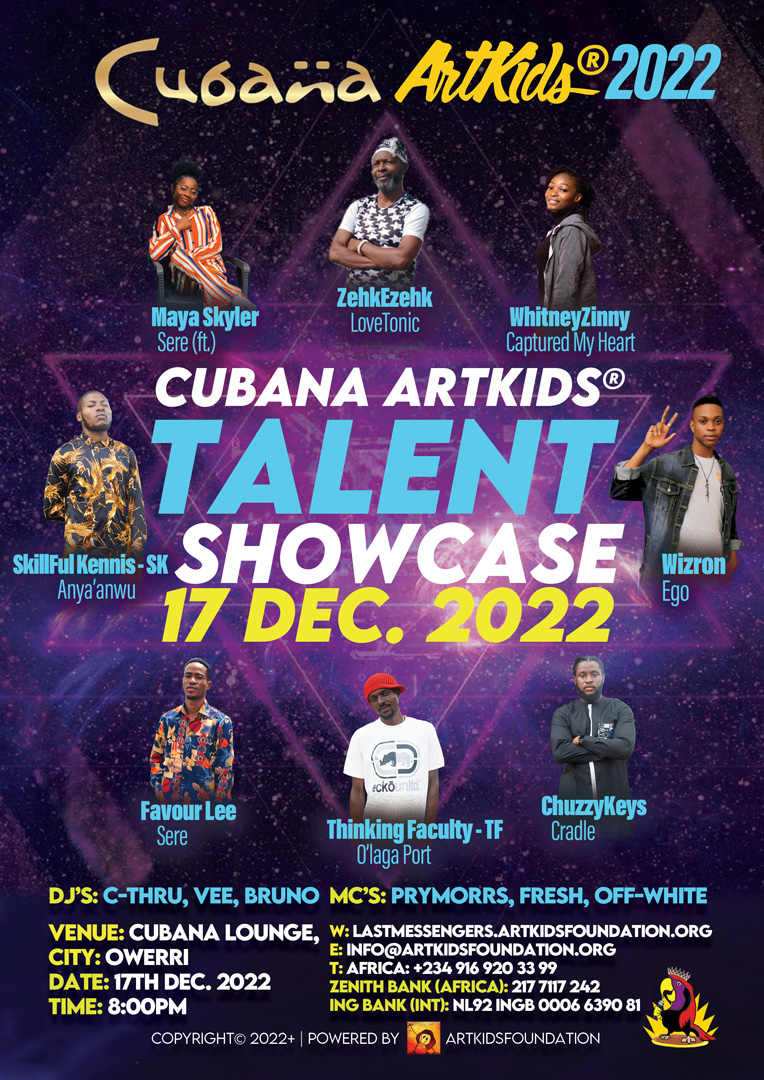
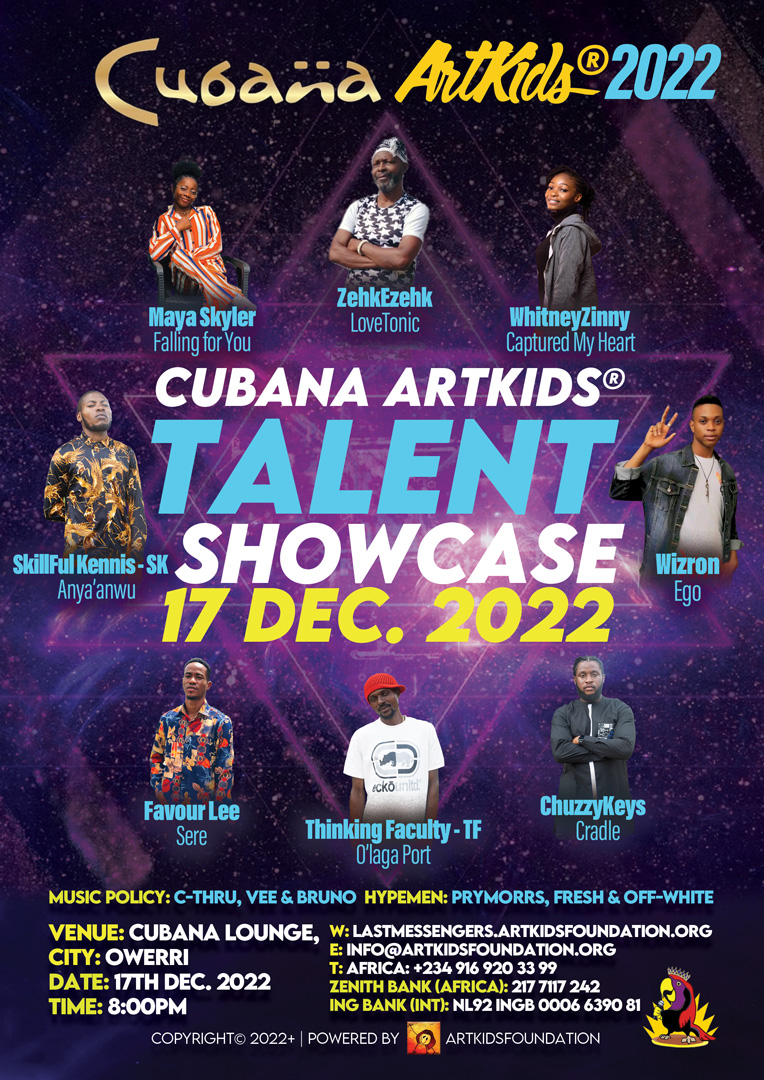
Maya

diff --git a/src/routes/+page.svelte b/src/routes/+page.svelte
@@ -57,22 +57,22 @@
 						</li>
 
 						<li>
-							05. Maya Skyler - Only You
+							05. Maya Skyler - Falling for You
+							Genre: R&B
+						</li>
+
+						<li>
+							06. Chuzzykeys - Cradle
 							Genre: Afrobeat
 						</li>
 
 						<li>
-							05. Chuzzykeys - Cradle
-							Genre: Afrobeat
-						</li>
-
-						<li>
-							06. Skillful Kennis SK - Anya-Anwu
+							07. Skillful Kennis SK - Anya-Anwu
 							Genre: Hip Hop
 						</li>
 
 						<li>
-							07. ZehkEzehk - LoveTonic
+							08. ZehkEzehk - LoveTonic
 							Genre: AfroR&B
 						</li>
 					</ol>
